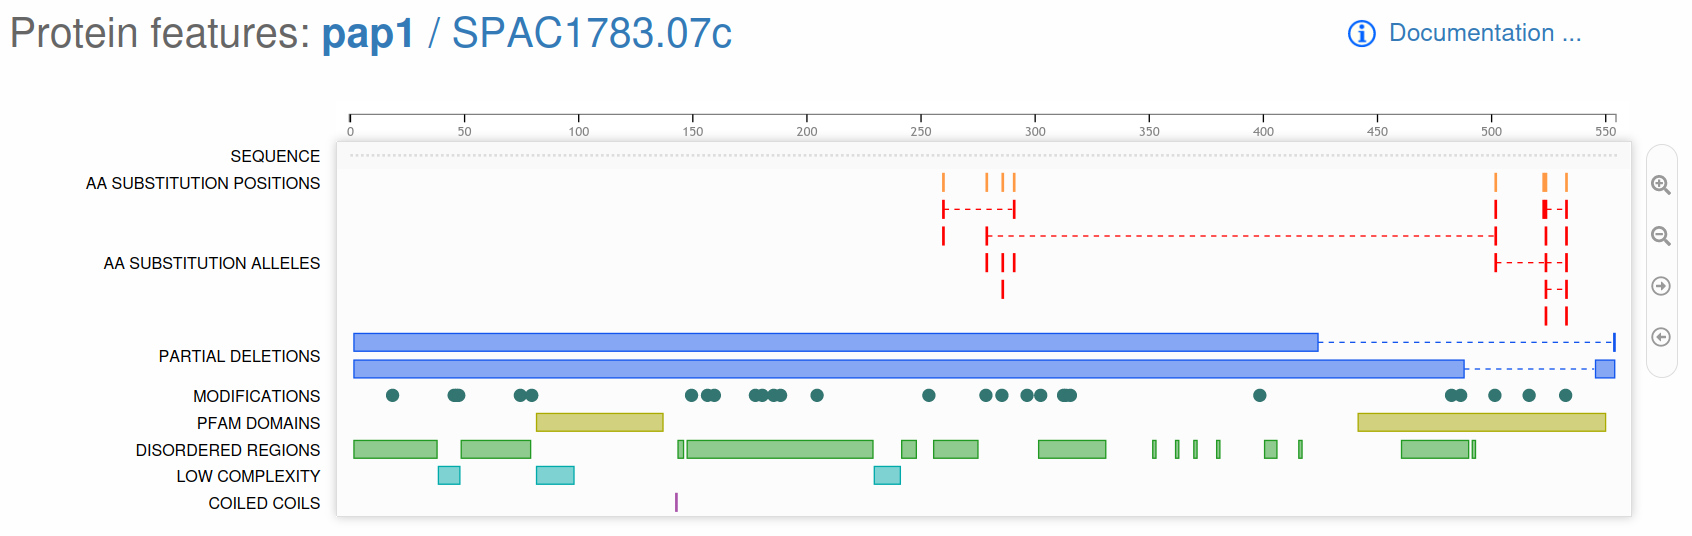
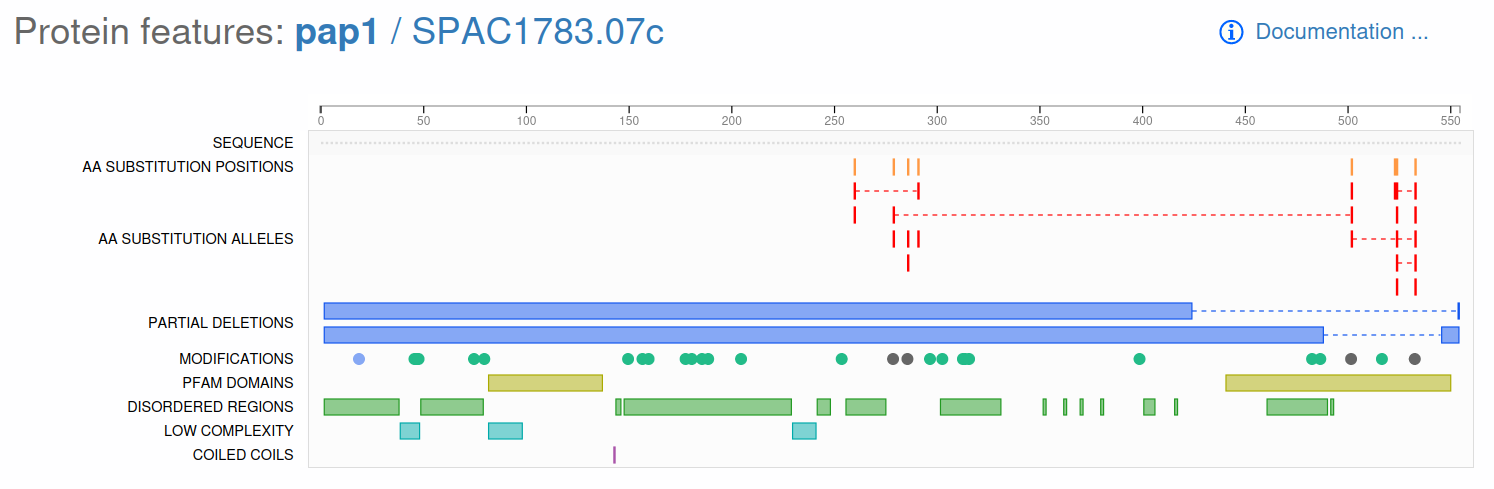
Update docs about modifications
We now have coloured modifications in the protein feature viewer.

Refs pombase/website#2079

diff --git a/src/styles.css b/src/styles.css
@@ -660,3 +660,10 @@ details {
   box-shadow: 1px 3px 12px 1px #ccc;
   margin: 1em 0.5em;
 }
+
+.docs-colour-block {
+  width: 4em;
+  height: 1em;
+  display: inline-block;
+  vertical-align: baseline;
+}

diff --git a/src/docs/documentation/gene-page-protein-features-widget.md b/src/docs/documentation/gene-page-protein-features-widget.md
@@ -13,7 +13,15 @@ description of the track.
   - **AA substitution positions** positions where there are one or more amino acid substitutions
   - **AA substitution alleles** curated amino acid substitution alleles (available only in the full view) 
   - **Partial deletions** curated alleles with partial amino acid deletions (full view only)
-  - **Modifications** curated modified residues
+  - **Modifications** curated modified residues coloured by modification type:
+    - <div style="background-color: #86a8f4;" class="docs-colour-block">&nbsp;</div> - N6-acylated L-lysine
+    - <div style="background-color: #d2d27e;" class="docs-colour-block">&nbsp;</div> - lipoconjugated residue
+    - <div style="background-color: #f88;" class="docs-colour-block">&nbsp;</div> - N-acetylated residue
+    - <div style="background-color: #2b8;" class="docs-colour-block">&nbsp;</div> - phosphorylated residue
+    - <div style="background-color: #c6f;" class="docs-colour-block">&nbsp;</div> - methylated residue
+    - <div style="background-color: #d6009e;" class="docs-colour-block">&nbsp;</div> - glycoconjugated residue
+    - <div style="background-color: #ff9943;" class="docs-colour-block">&nbsp;</div> - modified L-cysteine residue
+    - <div style="background-color: #666;" class="docs-colour-block">&nbsp;</div> - default
   - **Pfam families** Pfam protein familes from [InterPro](https://www.ebi.ac.uk/interpro/)
   - **TM domains** Trans-membrane domains calculated with TMHMM (Krogh et al. 2001)
   - **Disordered regions** Disordered regions from Pfam version 34.0 (El-Gebali et al. 2019)
